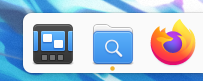
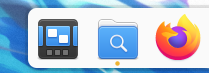
Small changes here and there

diff --git a/themes/Stellas Tweaks.css b/themes/Stellas Tweaks.css
@@ -5,8 +5,25 @@
 
 dock {
     background: alpha(@bg_color, 1);
+    
+    
+    box-shadow:
+        inset 0 -1px 0 0 alpha(@highlight_color, 0.1),
+        inset 0 1px 0 0 alpha(@highlight_color, 0.15),
+        inset 1px 0 0 0 alpha(@highlight_color, 0.035),
+        inset -1px 0 0 0 alpha(@highlight_color, 0.035),
+        0 0 0 3px alpha(@borders, 0.4),
+        0 1px 5px alpha(black, 0.10),
+        0 3px 11px alpha(black, 0.15);
+
+    
+    
 }
 
 .running-indicator {
     color: @accent_color;
 }
+
+
+
+

diff --git a/themes/Plank-classic-attempt.css b/themes/Plank-classic-attempt.css
@@ -7,11 +7,10 @@ dock {
     background: none;
 
     border-radius: 0px;
-    box-shadow: none;
+
     border: none;
 
     border-bottom: solid 6px @bg_color;
-
     margin: 0px;
     margin-top: 0;
 }
@@ -22,7 +21,7 @@ dock {
     -gtk-icon-size:12px;
     margin-top: -6px;
     
-    border-bottom: solid 3px @accent_color;
-    
+    /*border-bottom: solid 3px @accent_color;*/
+    box-shadow: 0px 4px 4px alpha(@accent_color, 1);
     
 }
